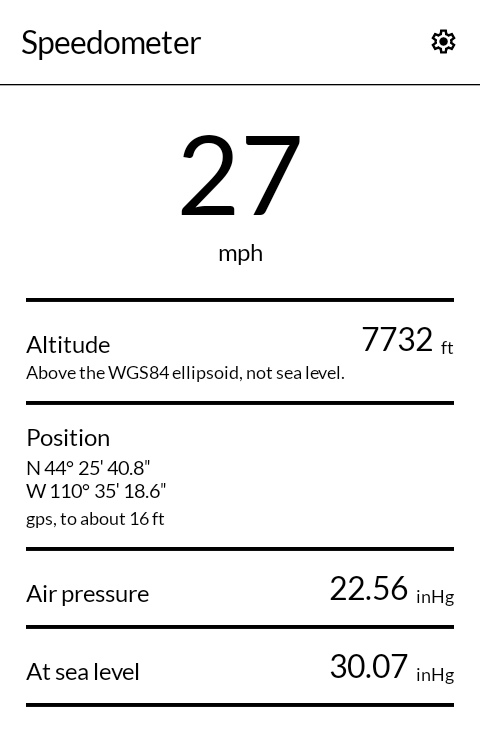
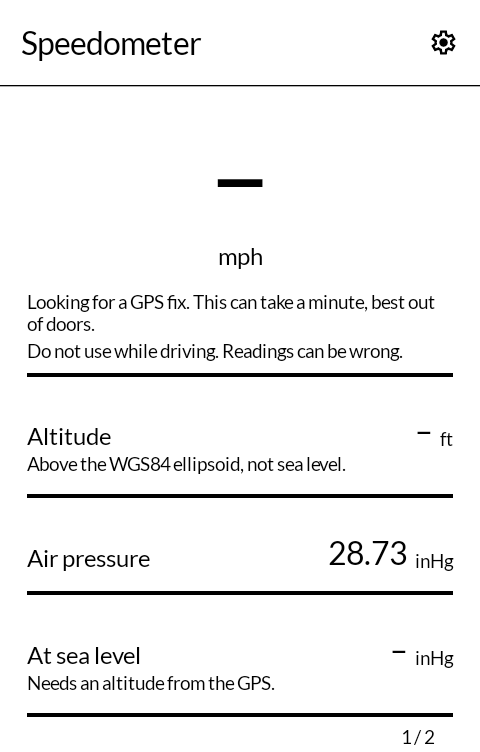
New screenshots

diff --git a/README.md b/README.md
@@ -12,7 +12,7 @@ sixteen greys, a slow redraw, and is read outdoors as often as indoors.
 
 | | | | |
 |---|---|---|---|
-| ![Readings, air pressure among them](screenshots/01-meter.png) | ![Speed](screenshots/02-speed.png) | ![Settings](screenshots/03-settings.png) | ![Pressure altitude, on the second page](screenshots/04-pressure.png) |
+| ![Readings, air pressure among them](screenshots/01-meter.png) | ![The driving notice](screenshots/02-notice.png) | ![Settings](screenshots/03-settings.png) | ![Pressure altitude, on the second page](screenshots/04-pressure.png) |
 
 ## What it shows
 
